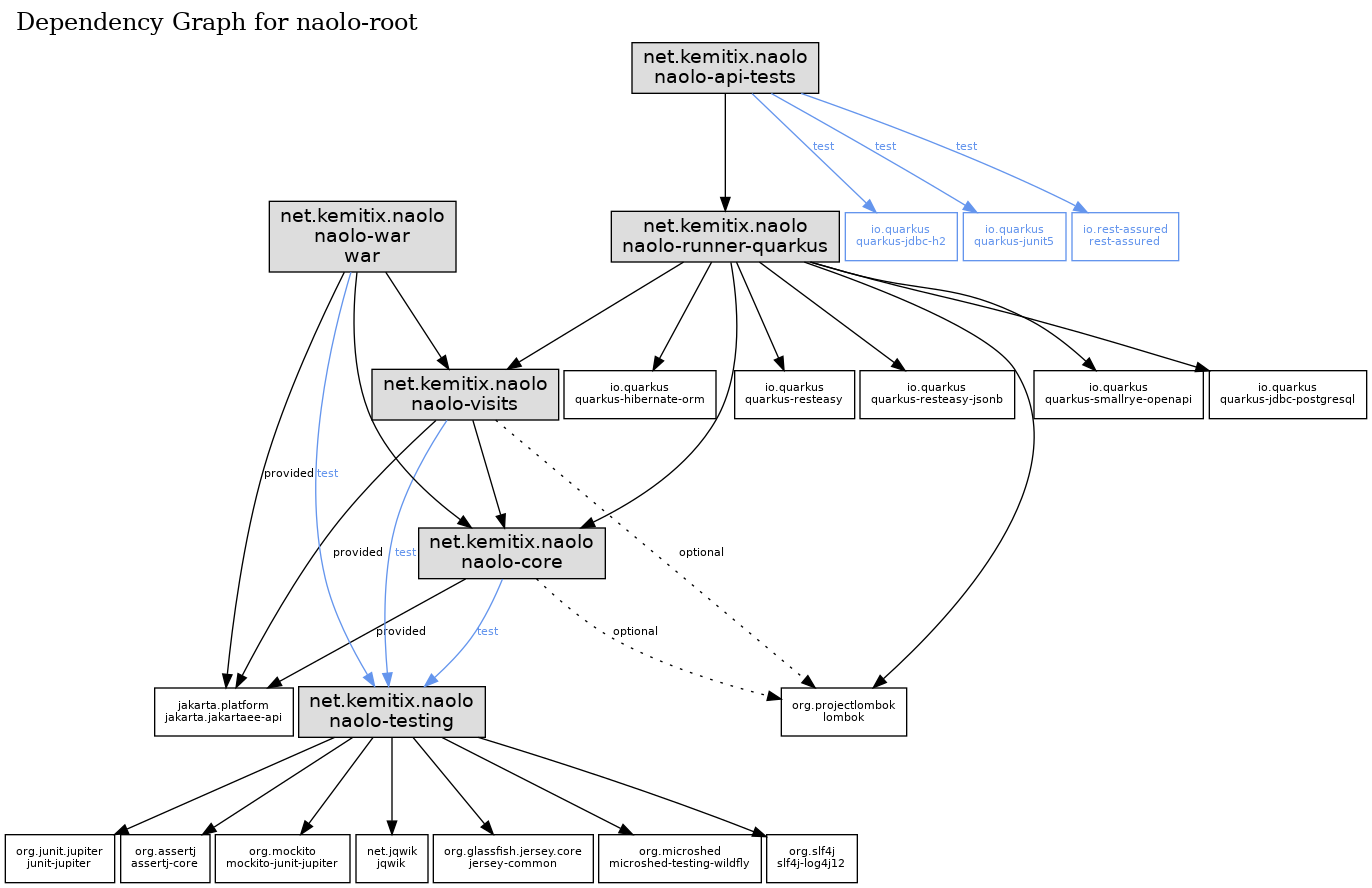
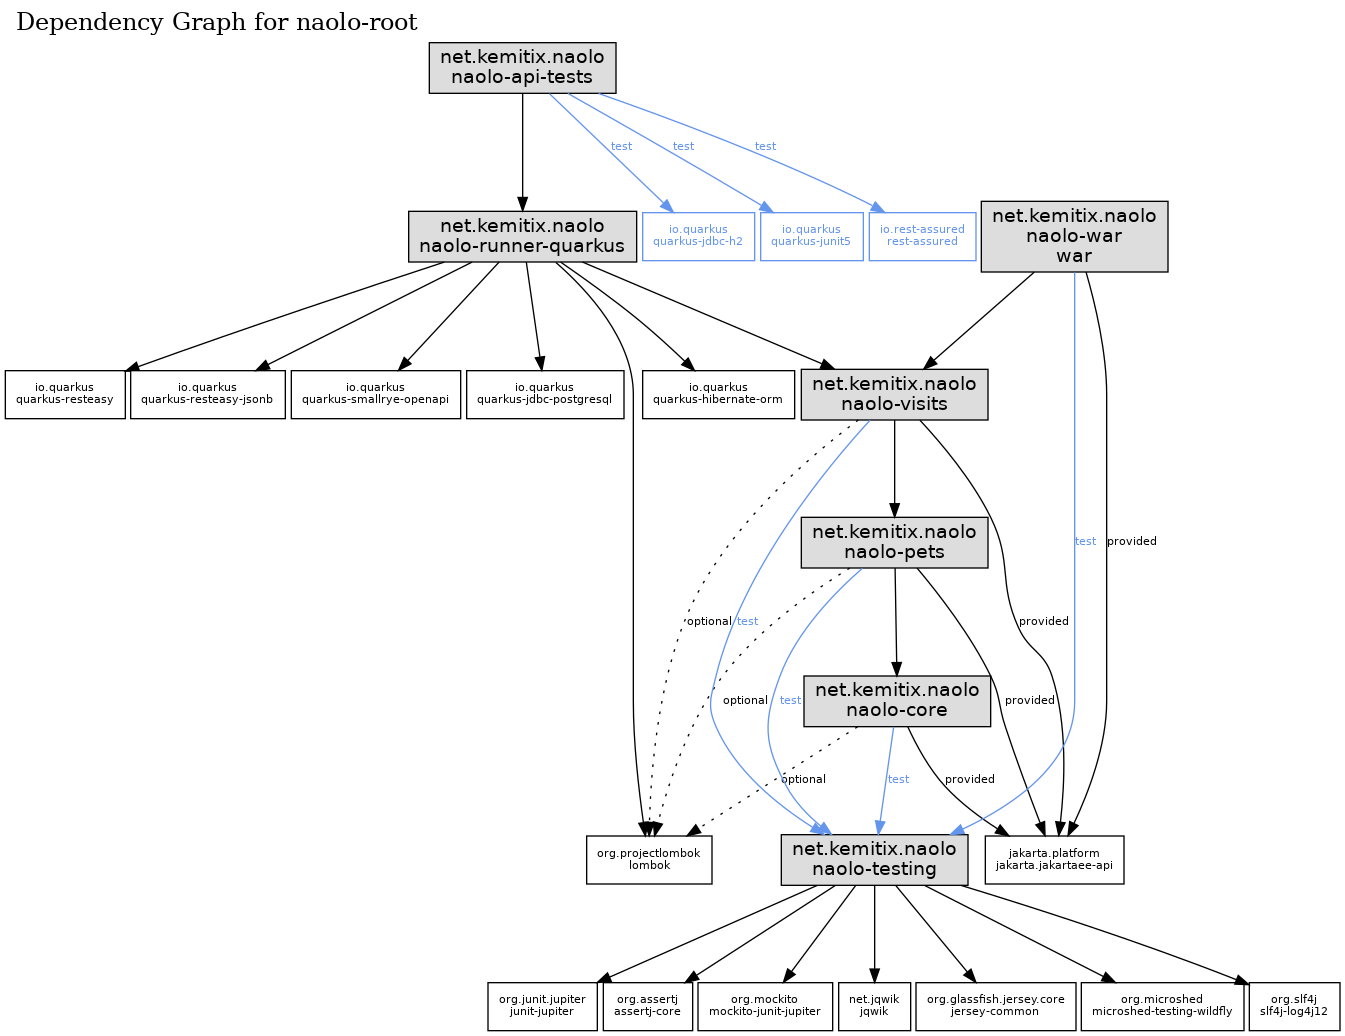
pets: extract pets module

diff --git a/pets/src/main/java/net/kemitix/naolo/pets/PetRepository.java b/pets/src/main/java/net/kemitix/naolo/pets/PetRepository.java
@@ -1,6 +1,6 @@
-package net.kemitix.naolo.storage;
+package net.kemitix.naolo.pets;
 
-import net.kemitix.naolo.entities.Pet;
+import net.kemitix.naolo.storage.AbstractEntityRepository;
 
 import javax.enterprise.context.ApplicationScoped;
 import javax.inject.Inject;
@@ -10,14 +10,14 @@ import java.util.stream.Stream;
 
 @ApplicationScoped
 public class PetRepository
-        extends AbstractEntityRepository<Pet>{
+        extends AbstractEntityRepository<Pet> {
 
     @Inject
     public PetRepository(final EntityManager entityManager) {
         super(entityManager);
     }
 
-    protected PetRepository() {
+    public PetRepository() {
         super(null);
     }
 

diff --git a/pets/src/main/java/net/kemitix/naolo/pets/PetResource.java b/pets/src/main/java/net/kemitix/naolo/pets/PetResource.java
@@ -1,7 +1,7 @@
-package net.kemitix.naolo;
+package net.kemitix.naolo.pets;
 
 import lombok.extern.java.Log;
-import net.kemitix.naolo.entities.Pet;
+import net.kemitix.naolo.AbstractEntityResource;
 import net.kemitix.naolo.storage.*;
 
 import javax.enterprise.context.ApplicationScoped;
@@ -23,7 +23,7 @@ public class PetResource
     public static final String PATH = "pets";
 
     @Inject
-    protected PetResource(
+    public PetResource(
             final ListEntityUseCase<Pet> listAll,
             final AddEntityUseCase<Pet> addEntity,
             final GetEntityUseCase<Pet> getEntity,

diff --git a/war/src/test/java/net/kemitix/naolo/war/VisitsIT.java b/war/src/test/java/net/kemitix/naolo/war/VisitsIT.java
@@ -1,11 +1,11 @@
 package net.kemitix.naolo.war;
 
 import net.kemitix.naolo.OwnerResource;
-import net.kemitix.naolo.PetResource;
 import net.kemitix.naolo.VetResource;
 import net.kemitix.naolo.entities.Owner;
-import net.kemitix.naolo.entities.Pet;
 import net.kemitix.naolo.entities.Veterinarian;
+import net.kemitix.naolo.pets.Pet;
+import net.kemitix.naolo.pets.PetResource;
 import net.kemitix.naolo.plugin.visits.Visit;
 import net.kemitix.naolo.plugin.visits.VisitResource;
 import org.assertj.core.api.WithAssertions;

diff --git a/pets/src/test/java/net/kemitix/naolo/pets/ListPetsTest.java b/pets/src/test/java/net/kemitix/naolo/pets/ListPetsTest.java
@@ -1,10 +1,8 @@
-package net.kemitix.naolo.core.pets;
+package net.kemitix.naolo.pets;
 
 import net.kemitix.naolo.core.StreamZipper;
 import net.kemitix.naolo.core.Tuple;
 import net.kemitix.naolo.entities.Owner;
-import net.kemitix.naolo.entities.Pet;
-import net.kemitix.naolo.entities.PetType;
 import net.kemitix.naolo.storage.EntityRepository;
 import net.kemitix.naolo.storage.ListEntityRequest;
 import net.kemitix.naolo.storage.ListEntityResponse;

diff --git a/war/src/test/java/net/kemitix/naolo/war/PetsIT.java b/war/src/test/java/net/kemitix/naolo/war/PetsIT.java
@@ -1,9 +1,9 @@
 package net.kemitix.naolo.war;
 
 import net.kemitix.naolo.OwnerResource;
-import net.kemitix.naolo.PetResource;
 import net.kemitix.naolo.entities.Owner;
-import net.kemitix.naolo.entities.Pet;
+import net.kemitix.naolo.pets.Pet;
+import net.kemitix.naolo.pets.PetResource;
 import org.assertj.core.api.WithAssertions;
 import org.junit.jupiter.api.DisplayName;
 import org.junit.jupiter.api.Test;

diff --git a/war/src/test/java/net/kemitix/naolo/war/ObjectMother.java b/war/src/test/java/net/kemitix/naolo/war/ObjectMother.java
@@ -1,6 +1,10 @@
 package net.kemitix.naolo.war;
 
-import net.kemitix.naolo.entities.*;
+import net.kemitix.naolo.entities.Owner;
+import net.kemitix.naolo.entities.VetSpecialisation;
+import net.kemitix.naolo.entities.Veterinarian;
+import net.kemitix.naolo.pets.Pet;
+import net.kemitix.naolo.pets.PetType;
 import net.kemitix.naolo.plugin.visits.Visit;
 
 import javax.ws.rs.core.HttpHeaders;

diff --git a/pets/src/test/java/net/kemitix/naolo/pets/AddPetTest.java b/pets/src/test/java/net/kemitix/naolo/pets/AddPetTest.java
@@ -1,8 +1,6 @@
-package net.kemitix.naolo.core.pets;
+package net.kemitix.naolo.pets;
 
 import net.kemitix.naolo.entities.Owner;
-import net.kemitix.naolo.entities.Pet;
-import net.kemitix.naolo.entities.PetType;
 import net.kemitix.naolo.storage.EntityRepository;
 import org.assertj.core.api.WithAssertions;
 import org.junit.jupiter.api.DisplayName;

diff --git a/visits/src/main/java/net/kemitix/naolo/plugin/visits/Visit.java b/visits/src/main/java/net/kemitix/naolo/plugin/visits/Visit.java
@@ -3,8 +3,8 @@ package net.kemitix.naolo.plugin.visits;
 
 import lombok.*;
 import net.kemitix.naolo.entities.JPAActivityListener;
-import net.kemitix.naolo.entities.Pet;
 import net.kemitix.naolo.entities.Veterinarian;
+import net.kemitix.naolo.pets.Pet;
 import net.kemitix.naolo.storage.HasId;
 
 import javax.json.bind.annotation.JsonbDateFormat;

diff --git a/visits/src/test/java/net/kemitix/naolo/plugin/visits/AddVisitTest.java b/visits/src/test/java/net/kemitix/naolo/plugin/visits/AddVisitTest.java
@@ -1,7 +1,7 @@
 package net.kemitix.naolo.plugin.visits;
 
-import net.kemitix.naolo.entities.Pet;
 import net.kemitix.naolo.entities.Veterinarian;
+import net.kemitix.naolo.pets.Pet;
 import net.kemitix.naolo.storage.EntityRepository;
 import org.assertj.core.api.WithAssertions;
 import org.junit.jupiter.api.DisplayName;

diff --git a/pets/src/main/java/net/kemitix/naolo/pets/PetType.java b/pets/src/main/java/net/kemitix/naolo/pets/PetType.java
@@ -19,7 +19,7 @@
  * OUT OF OR IN CONNECTION WITH THE SOFTWARE OR THE USE OR OTHER DEALINGS IN THE SOFTWARE.
  */
 
-package net.kemitix.naolo.entities;
+package net.kemitix.naolo.pets;
 
 /**
  * The type of Pet.
@@ -31,6 +31,6 @@ public enum PetType {
     DOG,
     CAT,
     SNAKE,
-    OTHER;
+    OTHER
 
 }

diff --git a/pets/src/main/java/net/kemitix/naolo/pets/RemovePet.java b/pets/src/main/java/net/kemitix/naolo/pets/RemovePet.java
@@ -1,7 +1,6 @@
-package net.kemitix.naolo.core.pets;
+package net.kemitix.naolo.pets;
 
 import lombok.Getter;
-import net.kemitix.naolo.entities.Pet;
 import net.kemitix.naolo.storage.EntityRepository;
 import net.kemitix.naolo.storage.RemoveEntityRequest;
 import net.kemitix.naolo.storage.RemoveEntityUseCase;

diff --git a/pets/src/main/java/net/kemitix/naolo/pets/UpdatePet.java b/pets/src/main/java/net/kemitix/naolo/pets/UpdatePet.java
@@ -1,7 +1,6 @@
-package net.kemitix.naolo.core.pets;
+package net.kemitix.naolo.pets;
 
 import lombok.Getter;
-import net.kemitix.naolo.entities.Pet;
 import net.kemitix.naolo.storage.EntityRepository;
 import net.kemitix.naolo.storage.UpdateEntityRequest;
 import net.kemitix.naolo.storage.UpdateEntityUseCase;
